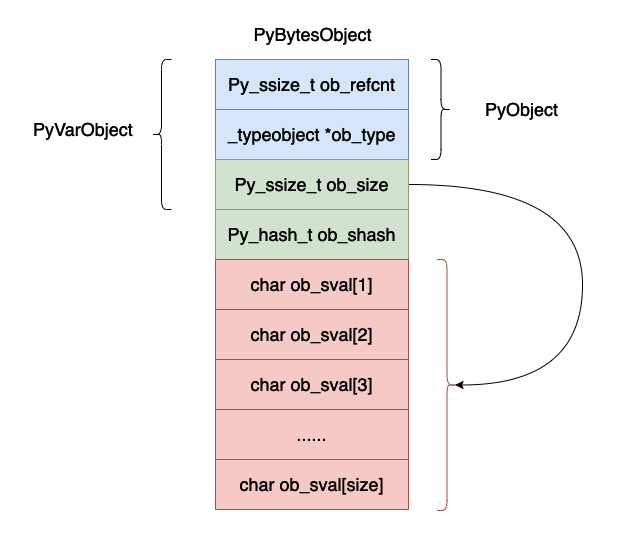
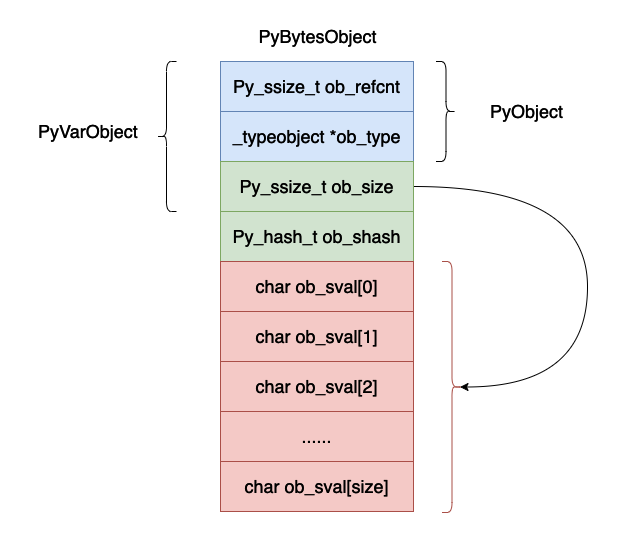
update bytes

diff --git a/objects/08bytes.md b/objects/08bytes.md
@@ -31,3 +31,65 @@ typedef struct _object {
 上面的数据结构用图示如下所示：
 
 ![28-bytes](../images/28-bytes.png)
+
+现在我们来解释一下上面的数据结构各个字段的含义：
+
+- ob_refcnt，这个还是对象的引用计数的个数，主要是在垃圾回收的时候有用。
+- ob_type，这个是对象的数据类型。
+- ob_size，表示这个对象当中字节的个数。
+- ob_shash，对象的哈希值，如果还没有计算，哈希值为 -1 。
+- ob_sval，一个数据存储一个字节的数据，需要注意的是 ob_sval[size] 一定等于 '\0' ，表示字符串的结尾。
+
+可能你会有疑问上面的结构体当中并没有后面的那么多字节啊，数组只有一个字节的数据啊，这是因为在 cpython 的实现当中除了申请 PyBytesObject 大的小内存空间之外，还会在这个基础之上申请连续的额外的内存空间用于保存数据，在后续的源码分析当中可以看到这一点。
+
+下面我们举几个例子来说明一下上面的布局：
+
+![29-bytes](../images/29-bytes.png)
+
+上面是空和字符串 abc 的字节表示。
+
+## 创建字节对象
+
+下面是在 cpython 当中通过字节数创建 PyBytesObject 对象的函数。
+
+```c
+static PyObject *
+_PyBytes_FromSize(Py_ssize_t size, int use_calloc)
+{
+    PyBytesObject *op;
+    assert(size >= 0);
+
+    if (size == 0 && (op = nullstring) != NULL) {
+#ifdef COUNT_ALLOCS
+        null_strings++;
+#endif
+        Py_INCREF(op);
+        return (PyObject *)op;
+    }
+
+    if ((size_t)size > (size_t)PY_SSIZE_T_MAX - PyBytesObject_SIZE) {
+        PyErr_SetString(PyExc_OverflowError,
+                        "byte string is too large");
+        return NULL;
+    }
+
+    /* Inline PyObject_NewVar */
+    if (use_calloc)
+        op = (PyBytesObject *)PyObject_Calloc(1, PyBytesObject_SIZE + size);
+    else
+        op = (PyBytesObject *)PyObject_Malloc(PyBytesObject_SIZE + size);
+    if (op == NULL)
+        return PyErr_NoMemory();
+    (void)PyObject_INIT_VAR(op, &PyBytes_Type, size);
+    op->ob_shash = -1;
+    if (!use_calloc)
+        op->ob_sval[size] = '\0';
+    /* empty byte string singleton */
+    if (size == 0) {
+        nullstring = op;
+        Py_INCREF(op);
+    }
+    return (PyObject *) op;
+}
+```
+
